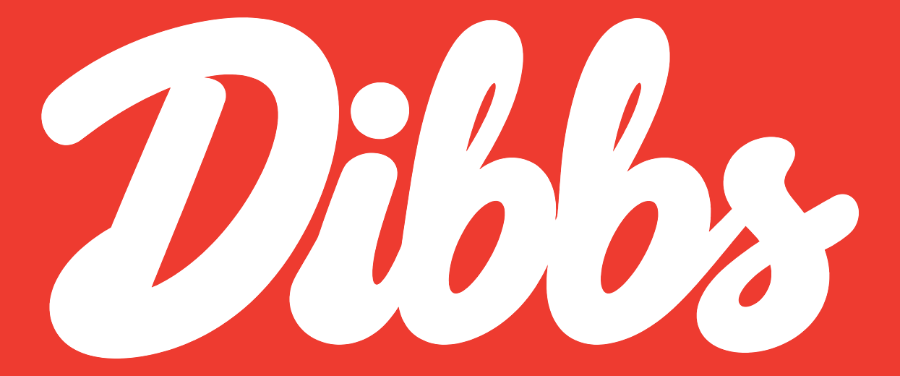
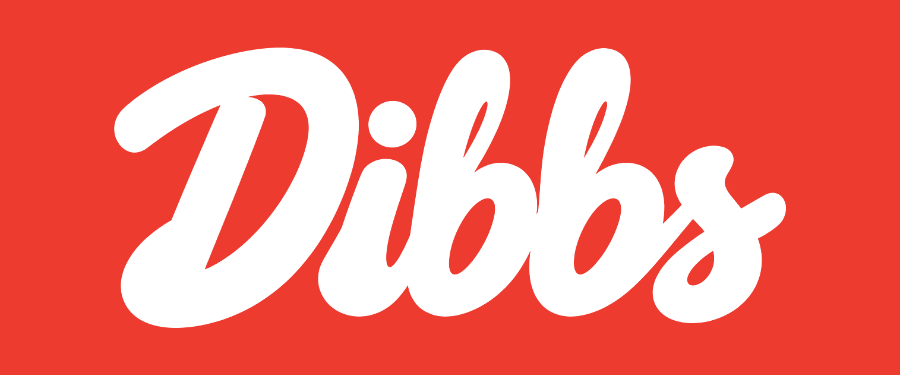
Brand the sign-in page, and fix what that exposed
Sign-in was a bare email field on the page background. On a desktop browser
it stretched a single input across the whole content column and read as an
unfinished page rather than a place to sign in.

Now: the wordmark top-left, the heading, and the flow in a card on the warm
ground, with the red CTA it already had. The chrome lives in a shared
<AuthScreenShell> so /auth/sign-in and /auth/email cannot drift — an old
link should not land on a differently-branded page than the current one.

The card is capped at 440px, far below the Screen's 860px desktop cap. A
sign-in form is a column of single-line inputs; an 860px-wide text field
looks broken however correct the layout maths are.

Three defects this surfaced, all visible only once the page was looked at:

The logo was pressed against its tile. The artwork carried 5% margin, which
is invisible at 1536px and cramped at 84px. Regenerated at 17% (12% for the
lockup). Margin is proportional on both axes, so the aspect ratio is
unchanged and only the glyph gets smaller inside the box — the ratios in
Logo.tsx are updated to the new files exactly, since a mismatch makes
expo-image letterbox the art off-centre.

"Use your phone number instead" was clipped to "Use your phone number ins…"
at 375px, losing the only route to the other sign-in method. Button put
numberOfLines={1} on every label. That is right for a solid button, where a
wrapped label reads as a broken box, and wrong for ghost, which is a text
[…]

diff --git a/components/auth/AuthScreenShell.tsx b/components/auth/AuthScreenShell.tsx
@@ -1,0 +1,71 @@
+/**
+ * Shared chrome for the auth routes: logo top-left, heading, and the flow
+ * itself in a card.
+ *
+ * It exists so /auth/sign-in and /auth/email cannot drift apart. Both used to
+ * render a bare form directly onto the page background, which on a desktop
+ * browser stretched a single email field across the full content column and
+ * read as an unfinished page rather than a sign-in.
+ *
+ * The card is capped well below the Screen's own desktop max width: a form is
+ * a column of single-line inputs, and a 860px-wide text field looks broken no
+ * matter how correct the layout maths are.
+ */
+import React from 'react';
+import { KeyboardAvoidingView, Platform, StyleSheet, View, useWindowDimensions } from 'react-native';
+import { Screen } from '@/components/ui/Screen';
+import { Text } from '@/components/ui/Text';
+import { Logo } from '@/components/ui/Logo';
+import { breakpoints, colors, radius, shadow, space } from '@/constants/theme';
+
+/** A sign-in form reads as a column; past this it stops looking like one. */
+const FORM_MAX_WIDTH = 440;
+
+export interface AuthScreenShellProps {
+  title: string;
+  children: React.ReactNode;
+}
+
+export function AuthScreenShell({ title, children }: AuthScreenShellProps) {
+  const { width } = useWindowDimensions();
+  const roomToBreathe = width >= breakpoints.md;
+
+  return (
+    <Screen scroll>
+      <KeyboardAvoidingView
+        behavior={Platform.OS === 'ios' ? 'padding' : undefined}
+        style={styles.flex}
+      >
+        <View style={[styles.column, { maxWidth: FORM_MAX_WIDTH }]}>
+          {/* Top-left, at the size it reads as a mark rather than a banner. */}
+          <Logo variant="wordmark" width={84} />
+
+          <Text variant={roomToBreathe ? 'display' : 'title'} style={styles.title}>
+            {title}
+          </Text>
+
+          <View style={styles.card}>{children}</View>
+        </View>
+      </KeyboardAvoidingView>
+    </Screen>
+  );
+}
+
+const styles = StyleSheet.create({
+  flex: { flex: 1, paddingTop: space.xl, paddingBottom: space.huge },
+  // alignSelf rather than margin:auto so the column stays left-aligned with
+  // the logo on a phone and simply stops growing on a wide screen.
+  column: { width: '100%', gap: space.lg },
+  title: { marginTop: space.xs },
+  card: {
+    backgroundColor: colors.surface,
+    borderColor: colors.line,
+    borderWidth: StyleSheet.hairlineWidth,
+    borderRadius: radius.lg,
+    padding: space.xl,
+    gap: space.md,
+    ...shadow,
+  },
+});
+
+export default AuthScreenShell;

diff --git a/app/auth/sign-in.tsx b/app/auth/sign-in.tsx
@@ -1,13 +1,16 @@
 /**
  * Sign-in. <AuthMethods> leads with campus email (or phone once SMS is live);
  * this screen is the page chrome plus the `returnTo` / `method` handling.
+ *
+ * The chrome lives in <AuthScreenShell> so this route and /auth/email stay
+ * identical. `hideFirstHeading` + `cardIntro` hand the heading to the shell and
+ * let the flow supply only its one-line explainer — the same pairing the
+ * welcome screen uses, so the card reads the same wherever it appears.
  */
 import React from 'react';
-import { KeyboardAvoidingView, Platform, StyleSheet } from 'react-native';
 import { useLocalSearchParams, useRouter } from 'expo-router';
-import { Screen } from '@/components/ui/Screen';
+import { AuthScreenShell } from '@/components/auth/AuthScreenShell';
 import { AuthMethods } from '@/components/auth/AuthMethods';
-import { space } from '@/constants/theme';
 
 export default function SignInScreen() {
   const { returnTo, method } = useLocalSearchParams<{ returnTo?: string; method?: string }>();
@@ -16,17 +19,13 @@ export default function SignInScreen() {
   const finish = () => router.replace((returnTo || '/') as never);
 
   return (
-    <Screen scroll>
-      <KeyboardAvoidingView behavior={Platform.OS === 'ios' ? 'padding' : undefined} style={styles.flex}>
-        <AuthMethods
-          onFinished={finish}
-          initialMethod={method === 'phone' || method === 'email' ? method : undefined}
-        />
-      </KeyboardAvoidingView>
-    </Screen>
+    <AuthScreenShell title="Sign in or sign up">
+      <AuthMethods
+        hideFirstHeading
+        cardIntro
+        onFinished={finish}
+        initialMethod={method === 'phone' || method === 'email' ? method : undefined}
+      />
+    </AuthScreenShell>
   );
 }
-
-const styles = StyleSheet.create({
-  flex: { flex: 1, paddingTop: space.xl, paddingBottom: space.huge },
-});

diff --git a/app/auth/email.tsx b/app/auth/email.tsx
@@ -1,32 +1,29 @@
 /**
  * Campus-email sign-in as its own route (kept for old links). The flow lives in
  * <EmailAuthFlow>; "Use your phone number instead" goes to /auth/sign-in?method=phone.
+ *
+ * Shares <AuthScreenShell> with /auth/sign-in so an old link does not land on a
+ * differently-branded page than the current one.
  */
 import React from 'react';
-import { KeyboardAvoidingView, Platform, StyleSheet } from 'react-native';
 import { useLocalSearchParams, useRouter } from 'expo-router';
-import { Screen } from '@/components/ui/Screen';
+import { AuthScreenShell } from '@/components/auth/AuthScreenShell';
 import { EmailAuthFlow } from '@/components/auth/EmailAuthFlow';
-import { space } from '@/constants/theme';
 
 export default function EmailSignInScreen() {
   const { returnTo } = useLocalSearchParams<{ returnTo?: string }>();
   const router = useRouter();
 
   return (
-    <Screen scroll>
-      <KeyboardAvoidingView behavior={Platform.OS === 'ios' ? 'padding' : undefined} style={styles.flex}>
-        <EmailAuthFlow
-          onFinished={() => router.replace((returnTo || '/') as never)}
-          onUsePhone={() =>
-            router.replace({ pathname: '/auth/sign-in', params: { returnTo: returnTo ?? '', method: 'phone' } })
-          }
-        />
-      </KeyboardAvoidingView>
-    </Screen>
+    <AuthScreenShell title="Sign in or sign up">
+      <EmailAuthFlow
+        hideFirstHeading
+        submitLabel="Email me a code"
+        onFinished={() => router.replace((returnTo || '/') as never)}
+        onUsePhone={() =>
+          router.replace({ pathname: '/auth/sign-in', params: { returnTo: returnTo ?? '', method: 'phone' } })
+        }
+      />
+    </AuthScreenShell>
   );
 }
-
-const styles = StyleSheet.create({
-  flex: { flex: 1, paddingTop: space.xl, paddingBottom: space.huge },
-});

diff --git a/components/ui/Button.tsx b/components/ui/Button.tsx
@@ -70,7 +70,13 @@ export function Button({
             variant="heading"
             weight="600"
             color={variant === 'secondary' || variant === 'ghost' ? 'ink' : 'white'}
-            numberOfLines={1}
+            // A solid button clamps to one line: a wrapped filled button reads
+            // as a broken box. A ghost button is really a text link, and its
+            // labels are sentences ("Use your phone number instead"), which at
+            // 375px clipped to "Use your phone number ins…" — losing the only
+            // route to the other sign-in method. Links wrap; buttons don't.
+            numberOfLines={variant === 'ghost' ? 2 : 1}
+            style={styles.label}
           >
             {title}
           </Text>
@@ -90,6 +96,10 @@ const styles = StyleSheet.create({
     minHeight: minTouchHeight,
     paddingHorizontal: space.xl,
   },
+  // flexShrink lets a long label wrap inside the row instead of overflowing it
+  // (the row is flexDirection: 'row', so without this the Text refuses to
+  // narrow). textAlign keeps a wrapped second line centred under the first.
+  label: { flexShrink: 1, textAlign: 'center' },
   md: { minHeight: minTouchHeight, paddingVertical: space.md },
   lg: { minHeight: minTouchHeight + 6, paddingVertical: space.lg },
   disabled: { opacity: 0.5 },

diff --git a/components/ui/Logo.tsx b/components/ui/Logo.tsx
@@ -10,14 +10,19 @@ import { View, type StyleProp, type ViewStyle } from 'react-native';
 import { Image } from 'expo-image';
 import { colors, radius } from '@/constants/theme';
 
+// Ratios must match the shipped files exactly, or expo-image letterboxes the
+// art inside the brand-red box and the mark drifts off-centre. The artwork
+// carries its own margin (regenerated at 17%/12% so the script is not pressed
+// against the tile edge at the small sizes it is actually used), so nothing
+// here should add padding on top of it.
 const ASSETS = {
   wordmark: {
     source: require('../../assets/branding/dibbs-wordmark-red.png'),
-    ratio: 900 / 376,
+    ratio: 900 / 375,
   },
   lockup: {
     source: require('../../assets/branding/dibbs-lockup-white.png'),
-    ratio: 1100 / 565,
+    ratio: 1100 / 566,
   },
 } as const;
 

diff --git a/app/_layout.tsx b/app/_layout.tsx
@@ -95,6 +95,13 @@ export default function RootLayout() {
                   name="auth/sign-in"
                   options={{ presentation: 'modal', title: 'Sign in' }}
                 />
+                {/* auth/email was added after this list and never registered,
+                    so expo-router fell back to the route path and the modal
+                    header literally read "auth/email". */}
+                <Stack.Screen
+                  name="auth/email"
+                  options={{ presentation: 'modal', title: 'Sign in' }}
+                />
                 <Stack.Screen
                   name="auth/verify"
                   options={{ presentation: 'modal', title: 'Verify code' }}
